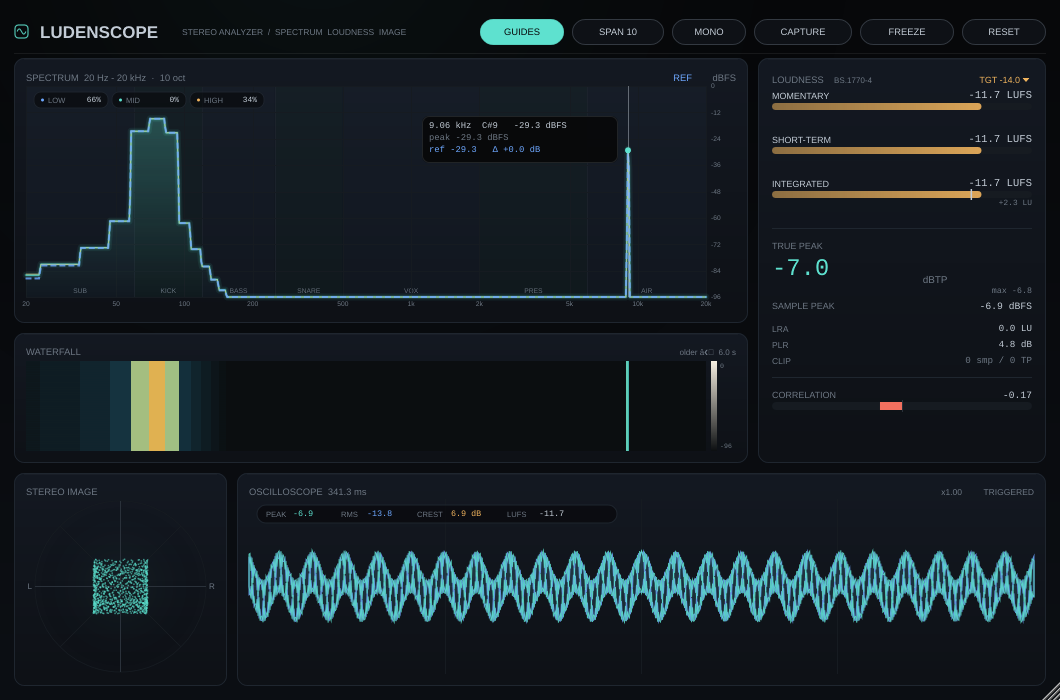
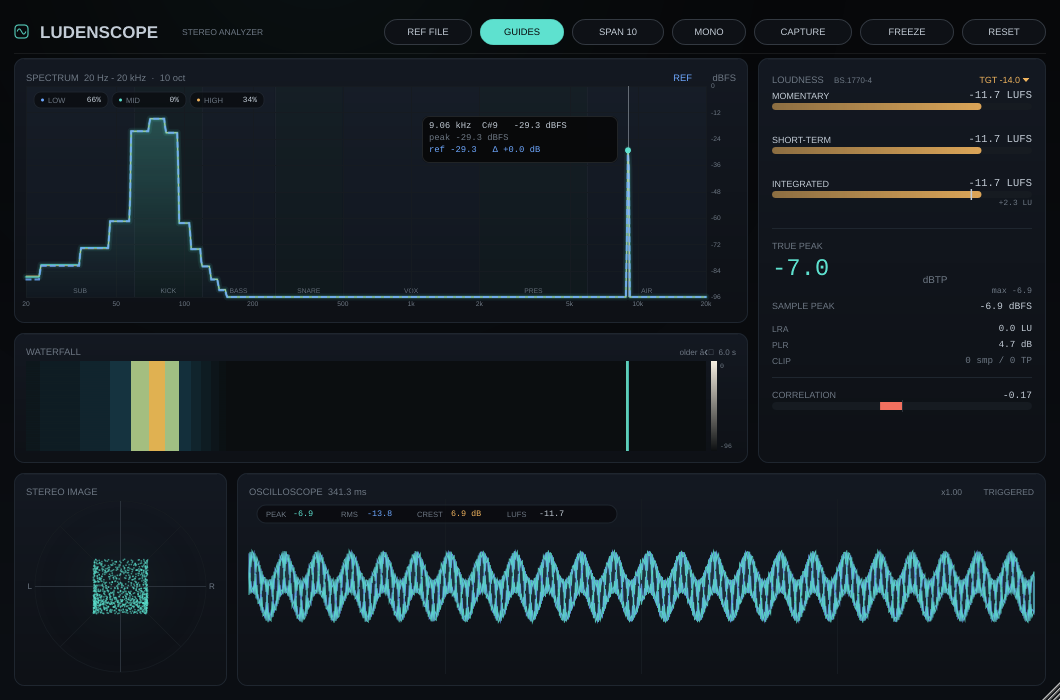
ref: load a reference audio file and overlay its averaged spectrum
- REF FILE opens a file chooser (wav/aiff/flac/ogg) and analyses the file
  on a background thread, so long tracks do not block the UI
- analysis decodes in blocks, sums to mono, runs the same 512-bin log FFT
  analyser and uses its exponential average as the reference curve
- the button shows LOADING... while the thread runs and restores itself
  through a SafePointer callback when done
- RESET still clears the reference; CAPTURE remains for live snapshots
- UiSnapshot writes a 2 s 1 kHz wav and checks that the analysed peak lands
  on the expected bin (289 vs ~290)

diff --git a/Source/PluginEditor.cpp b/Source/PluginEditor.cpp
@@ -2,6 +2,33 @@
 
 #include <cmath>
 
+#include "dsp/ReferenceAnalysis.h"
+
+class ReferenceLoader final : public juce::Thread
+{
+public:
+    ReferenceLoader (juce::File f,
+                     std::function<void (const ReferenceAnalysis&)> finished)
+        : juce::Thread ("LudensScope reference analysis"),
+          file (std::move (f)), onFinished (std::move (finished))
+    {
+    }
+
+    void run() override
+    {
+        const auto result = analyzeReferenceFile (file, [this] { return threadShouldExit(); });
+
+        juce::MessageManager::callAsync ([done = onFinished, result]
+        {
+            done (result);
+        });
+    }
+
+private:
+    juce::File file;
+    std::function<void (const ReferenceAnalysis&)> onFinished;
+};
+
 class ScopeLookAndFeel final : public juce::LookAndFeel_V4
 {
 public:
@@ -99,6 +126,11 @@ LudensScopeEditor::LudensScopeEditor (LudensScopeProcessor& p)
     };
     addAndMakeVisible (guidesButton);
 
+    referenceButton.setColour (juce::TextButton::buttonColourId, theme::panel);
+    referenceButton.setColour (juce::TextButton::textColourOffId, theme::text);
+    referenceButton.onClick = [this] { chooseReferenceFile(); };
+    addAndMakeVisible (referenceButton);
+
     spectrumView.onRangeChange = [this] (float lowHz, float highHz)
     {
         applyRange (lowHz, highHz);
@@ -123,6 +155,12 @@ LudensScopeEditor::LudensScopeEditor (LudensScopeProcessor& p)
 
 LudensScopeEditor::~LudensScopeEditor()
 {
+    if (referenceLoader != nullptr)
+    {
+        referenceLoader->signalThreadShouldExit();
+        referenceLoader->stopThread (2000);
+    }
+
     setLookAndFeel (nullptr);
 }
 
@@ -172,8 +210,7 @@ void LudensScopeEditor::paint (juce::Graphics& g)
 
     g.setFont (theme::labelFont (9.5f));
     g.setColour (theme::textDim);
-    g.drawText ("STEREO ANALYZER  /  SPECTRUM  LOUDNESS  IMAGE", header,
-                juce::Justification::centredLeft);
+    g.drawText ("STEREO ANALYZER", header, juce::Justification::centredLeft);
 
     g.setColour (juce::Colour (0x12ffffff));
     g.fillRect (14, 53, getWidth() - 28, 1);
@@ -195,6 +232,8 @@ void LudensScopeEditor::resized()
     spanButton.setBounds (header.removeFromRight (92).withSizeKeepingCentre (92, 26));
     header.removeFromRight (8);
     guidesButton.setBounds (header.removeFromRight (84).withSizeKeepingCentre (84, 26));
+    header.removeFromRight (8);
+    referenceButton.setBounds (header.removeFromRight (88).withSizeKeepingCentre (88, 26));
 
     r.removeFromTop (8);
 
@@ -349,6 +388,52 @@ void LudensScopeEditor::appendScope (const float* left, const float* right, int 
 
     std::memcpy (scopeLeft.data()  + keep, left  + (numSamples - take), sizeof (float) * (size_t) take);
     std::memcpy (scopeRight.data() + keep, right + (numSamples - take), sizeof (float) * (size_t) take);
+}
+
+void LudensScopeEditor::chooseReferenceFile()
+{
+    referenceChooser = std::make_unique<juce::FileChooser> (
+        "Load reference audio", juce::File(), "*.wav;*.aif;*.aiff;*.flac;*.ogg");
+
+    referenceChooser->launchAsync (juce::FileBrowserComponent::openMode
+                                       | juce::FileBrowserComponent::canSelectFiles,
+                                   [this] (const juce::FileChooser& chooser)
+                                   {
+                                       const auto file = chooser.getResult();
+
+                                       if (file.existsAsFile())
+                                           loadReferenceFile (file);
+                                   });
+}
+
+void LudensScopeEditor::loadReferenceFile (const juce::File& file)
+{
+    if (referenceLoader != nullptr)
+        referenceLoader->stopThread (2000);
+
+    referenceButton.setButtonText ("LOADING...");
+    referenceButton.setEnabled (false);
+
+    referenceLoader = std::make_unique<ReferenceLoader> (
+        file,
+        [safe = juce::Component::SafePointer<LudensScopeEditor> (this)]
+        (const ReferenceAnalysis& analysis)
+        {
+            if (safe == nullptr)
+                return;
+
+            safe->referenceButton.setButtonText ("REF FILE");
+            safe->referenceButton.setEnabled (true);
+
+            if (! analysis.ok)
+                return;
+
+            safe->referenceDb = analysis.levels;
+            safe->hasReference = true;
+            safe->spectrumView.setReference (safe->referenceDb.data(), true);
+        });
+
+    referenceLoader->startThread();
 }
 
 void LudensScopeEditor::setGuidesEnabled (bool enabled)

diff --git a/Source/dsp/ReferenceAnalysis.h b/Source/dsp/ReferenceAnalysis.h
@@ -1,0 +1,65 @@
+#pragma once
+
+#include <juce_audio_formats/juce_audio_formats.h>
+
+#include <array>
+#include <functional>
+#include <memory>
+#include <vector>
+
+#include "SpectrumAnalyzer.h"
+
+struct ReferenceAnalysis
+{
+    bool ok = false;
+    std::array<float, SpectrumAnalyzer::numBins> levels {};
+};
+
+// Decodes an audio file on the calling thread and returns its time-averaged
+// spectrum on the same 512 log bins as the live analyzer. The optional
+// shouldExit callback lets a background Thread abort early.
+inline ReferenceAnalysis analyzeReferenceFile (const juce::File& file,
+                                               std::function<bool()> shouldExit = {})
+{
+    ReferenceAnalysis result;
+
+    juce::AudioFormatManager formats;
+    formats.registerBasicFormats();
+
+    std::unique_ptr<juce::AudioFormatReader> reader (formats.createReaderFor (file));
+
+    if (reader == nullptr || reader->lengthInSamples <= 0)
+        return result;
+
+    SpectrumAnalyzer analyzer;
+    analyzer.prepare (reader->sampleRate > 0.0 ? reader->sampleRate : 48000.0);
+
+    constexpr int blockSize = 8192;
+    juce::AudioBuffer<float> buffer (2, blockSize);
+    std::vector<float> mono ((size_t) blockSize);
+
+    for (juce::int64 pos = 0; pos < reader->lengthInSamples; pos += blockSize)
+    {
+        if (shouldExit && shouldExit())
+            return result;
+
+        const int n = (int) juce::jmin ((juce::int64) blockSize,
+                                        reader->lengthInSamples - pos);
+
+        buffer.clear();
+        reader->read (&buffer, 0, n, pos, true, reader->numChannels > 1);
+
+        const float* left = buffer.getReadPointer (0);
+        const float* right = reader->numChannels > 1 ? buffer.getReadPointer (1) : left;
+
+        for (int i = 0; i < n; ++i)
+            mono[(size_t) i] = 0.5f * (left[i] + right[i]);
+
+        analyzer.push (mono.data(), mono.data(), n);
+        analyzer.update();
+    }
+
+    result.levels = analyzer.averageLevels();
+    result.ok = true;
+    return result;
+}

diff --git a/Tests/UiSnapshot.cpp b/Tests/UiSnapshot.cpp
@@ -1,4 +1,5 @@
 #include "PluginEditor.h"
+#include "dsp/ReferenceAnalysis.h"
 #include "PluginProcessor.h"
 
 #include <cmath>
@@ -133,6 +134,50 @@ int main (int argc, char** argv)
     const auto clipped = processor.clippedSampleCount();
     std::printf ("clip counter %llu (expected 2)\n", (unsigned long long) clipped);
 
+    // Reference file analysis: a 1 kHz sine should peak near bin 290.
+    juce::File referenceFile ("/tmp/ludensscope-reference-test.wav");
+    bool referenceOk = false;
+
+    {
+        referenceFile.deleteFile();
+
+        juce::WavAudioFormat wavFormat;
+        std::unique_ptr<juce::AudioFormatWriter> writer (
+            wavFormat.createWriterFor (new juce::FileOutputStream (referenceFile),
+                                       48000.0, 2, 16, juce::StringPairArray(), 0));
+
+        if (writer != nullptr)
+        {
+            juce::AudioBuffer<float> sine (2, 96000);
+
+            for (int i = 0; i < sine.getNumSamples(); ++i)
+            {
+                const float value = 0.5f * (float) std::sin (2.0 * pi * 1000.0 * (double) i / 48000.0);
+                sine.setSample (0, i, value);
+                sine.setSample (1, i, value);
+            }
+
+            writer->writeFromAudioSampleBuffer (sine, 0, sine.getNumSamples());
+        }
+    }
+
+    if (referenceFile.existsAsFile())
+    {
+        const auto analysis = analyzeReferenceFile (referenceFile);
+
+        if (analysis.ok)
+        {
+            int bestBin = 0;
+
+            for (int i = 1; i < SpectrumAnalyzer::numBins; ++i)
+                if (analysis.levels[(size_t) i] > analysis.levels[(size_t) bestBin])
+                    bestBin = i;
+
+            std::printf ("reference peak bin %d (expected near 290)\n", bestBin);
+            referenceOk = std::abs (bestBin - 290) <= 4;
+        }
+    }
+
     editor.reset();
-    return clipped == 2 ? 0 : 1;
+    return clipped == 2 && referenceOk ? 0 : 1;
 }

diff --git a/Source/PluginEditor.h b/Source/PluginEditor.h
@@ -17,6 +17,7 @@
 #include "ui/VectorScopeView.h"
 
 class ScopeLookAndFeel;
+class ReferenceLoader;
 
 class LudensScopeEditor : public juce::AudioProcessorEditor,
                        private juce::Timer
@@ -44,6 +45,8 @@ private:
     void resetDisplay();
     void cycleSpan();
     void applyRange (float lowHz, float highHz);
+    void chooseReferenceFile();
+    void loadReferenceFile (const juce::File& file);
 
     static constexpr int scopeSize = 16384;
     static constexpr int readChunk = 8192;
@@ -64,6 +67,10 @@ private:
     juce::TextButton monoButton { "MONO" };
     juce::TextButton spanButton { "SPAN 10" };
     juce::TextButton guidesButton { "GUIDES" };
+    juce::TextButton referenceButton { "REF FILE" };
+
+    std::unique_ptr<juce::FileChooser> referenceChooser;
+    std::unique_ptr<ReferenceLoader> referenceLoader;
 
     bool monoActive = false;
 

diff --git a/README.md b/README.md
@@ -78,8 +78,10 @@ cmake --build --preset dev -j$(nproc)
    PEAK / RMS / CREST / LUFS по видимому окну. `MONO` — анализ суммы каналов
    для проверки моно-совместимости.
 6. `CAPTURE` — зафиксировать усреднённый спектр как референс (синий пунктир;
-   разница с текущим уровнем видна в инспекторе). `FREEZE` — стопор кадров,
-   `RESET` — сброс пиков, громкости, референса и счётчиков.
+   разница с текущим уровнем видна в инспекторе). `REF FILE` — загрузить
+   wav/aiff/flac и наложить усреднённую кривую файла (без воспроизведения;
+   анализ идёт в фоне). `FREEZE` — стопор кадров, `RESET` — сброс пиков,
+   громкости, референса и счётчиков.
 
 ## macOS + Cubase
 
